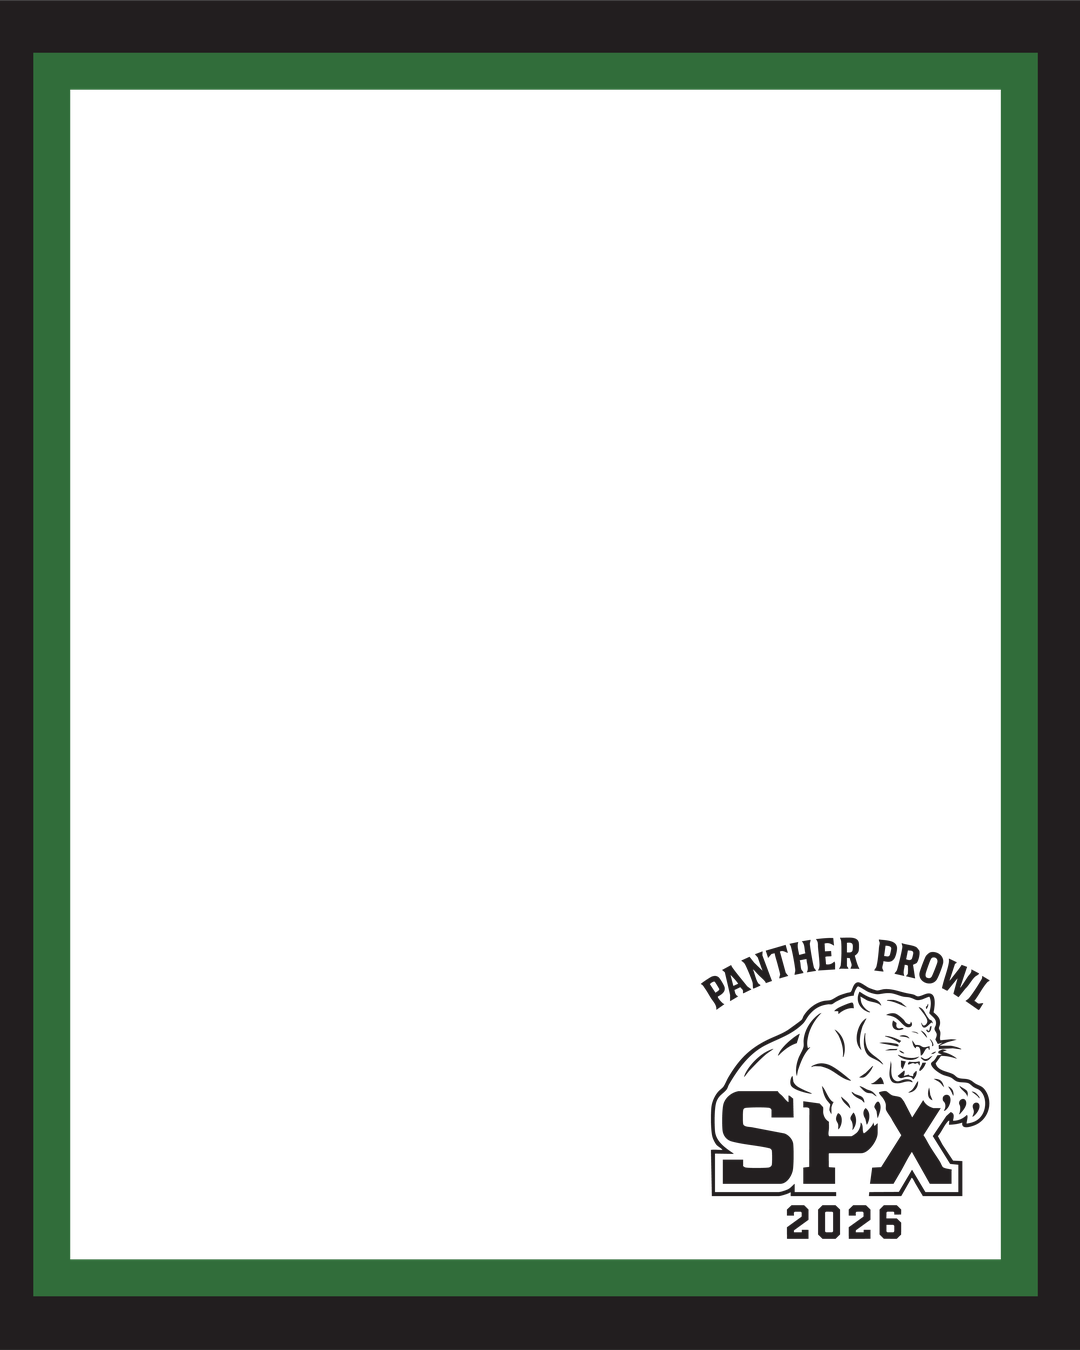
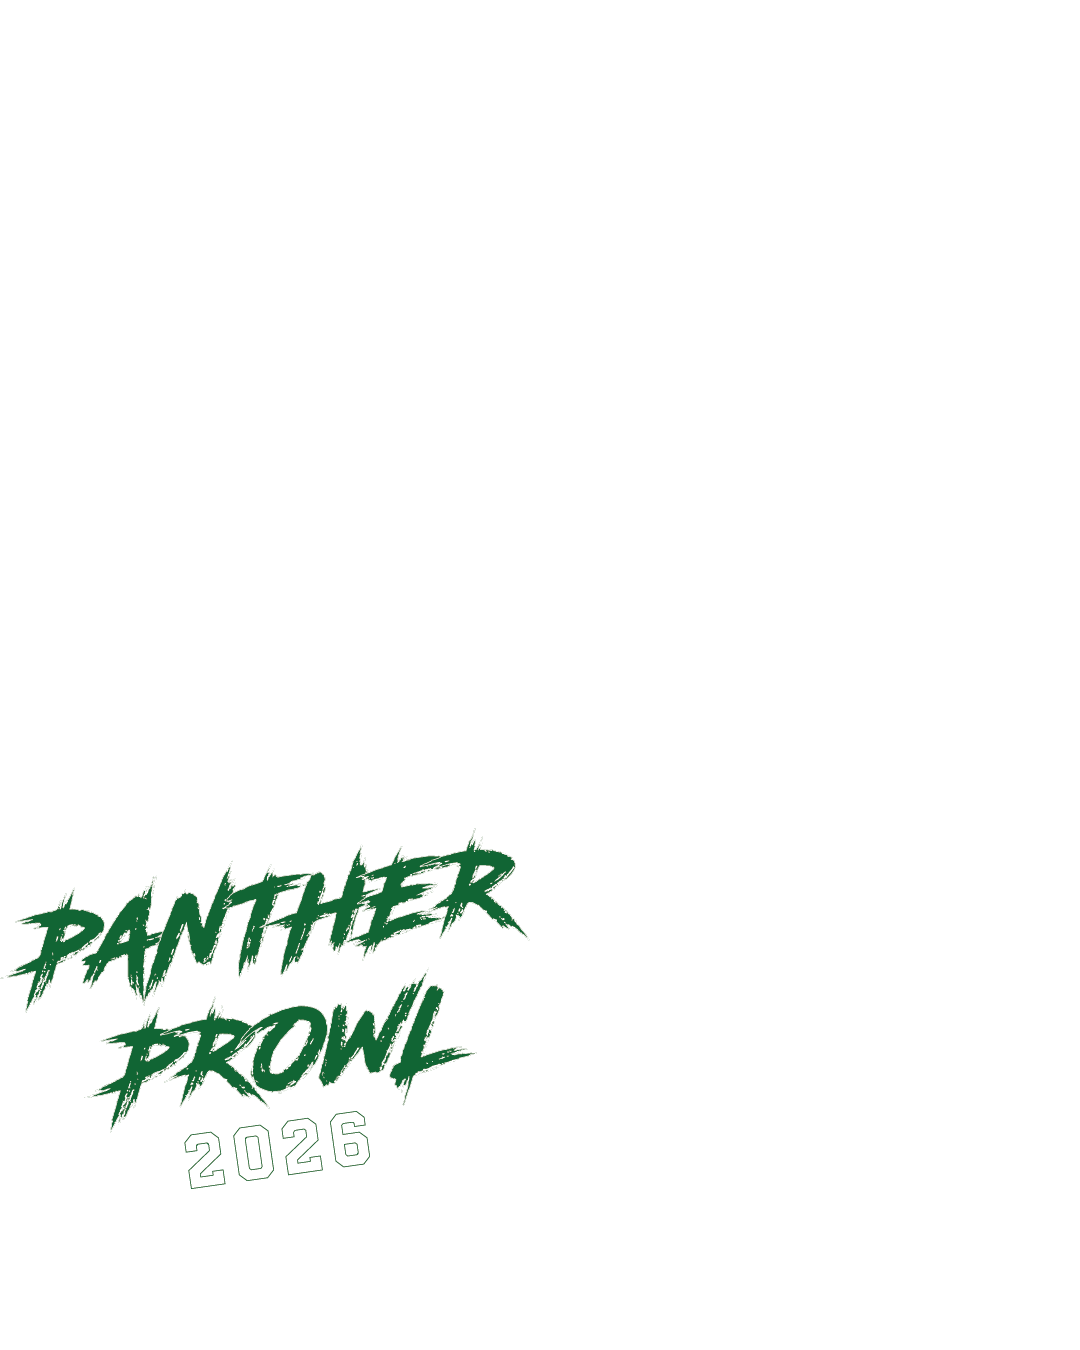
Replace Design 1 and add two more overlay options (#20)
* Replace Design 1 and add two more overlay options

Swaps the original Design 1 artwork for the new Panther Prowl 2026
wordmark, and adds two new overlays (a panther-cub banner and a
paw/2026/Panthers badge) as Design 4 and Design 5, for five total.

* Update e2e overlay-count expectation to 5

The Playwright suite isn't covered by npm test (vitest), so the
hardcoded count of 3 slipped through local verification and only
surfaced in CI after Design 4 and 5 were added.

diff --git a/src/config/event.ts b/src/config/event.ts
@@ -2,6 +2,8 @@ import type { EventConfig } from './types.ts';
 import overlayAsset from '../assets/overlay-panther-prowl-2026.png';
 import overlayAssetAlt from '../assets/overlay-panther-prowl-2026-alt.png';
 import overlayAssetAlt2 from '../assets/overlay-panther-prowl-2026-alt-2.png';
+import overlayAssetAlt3 from '../assets/overlay-panther-prowl-2026-alt-3.png';
+import overlayAssetAlt4 from '../assets/overlay-panther-prowl-2026-alt-4.png';
 
 /**
  * The single configured event for this deployment.
@@ -18,6 +20,8 @@ export const eventConfig: EventConfig = {
     { id: 'panther-prowl-2026', label: 'Design 1', asset: overlayAsset },
     { id: 'panther-prowl-2026-alt', label: 'Design 2', asset: overlayAssetAlt },
     { id: 'panther-prowl-2026-alt-2', label: 'Design 3', asset: overlayAssetAlt2 },
+    { id: 'panther-prowl-2026-alt-3', label: 'Design 4', asset: overlayAssetAlt3 },
+    { id: 'panther-prowl-2026-alt-4', label: 'Design 5', asset: overlayAssetAlt4 },
   ],
   outputWidth: 1080,
   outputHeight: 1350,

diff --git a/tests/e2e/guest-flow.spec.ts b/tests/e2e/guest-flow.spec.ts
@@ -65,7 +65,7 @@ test('tapping an overlay-picker option swaps the on-screen frame design', async 
 
   const picker = page.getByRole('radiogroup', { name: 'Choose a frame design' });
   const options = picker.getByRole('radio');
-  await expect(options).toHaveCount(3);
+  await expect(options).toHaveCount(5);
   await expect(options.nth(0)).toHaveAttribute('aria-checked', 'true');
 
   await options.nth(1).click();
